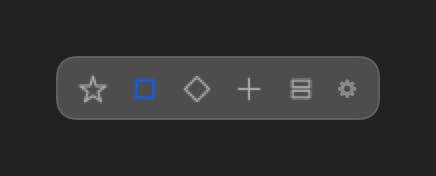
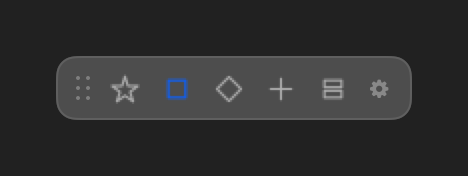
Give the horizontal strip something to drag it by
The strip was nominally draggable everywhere, but the icons and the gear
took every click across almost all of it, leaving five points of padding at
each end — nothing anyone would find. It now opens with a grip that is both
a visible affordance and the drag surface.

The dots are drawn rather than an SF Symbol: not every plausible name for a
grip glyph exists, and Image(systemName:) renders a missing one as nothing
at all, which is exactly how the first attempt failed.

diff --git a/Sources/PaneRail/UI/RailView.swift b/Sources/PaneRail/UI/RailView.swift
@@ -9,6 +9,7 @@ struct RailView: View {
 
     @State private var hoveredID: UInt64?
     @State private var isHoveringSettings = false
+    @State private var isHoveringGrip = false
 
     private let cornerRadius: CGFloat = 10
 
@@ -66,10 +67,33 @@ struct RailView: View {
         .background(WindowDragHandle())
     }
 
-    /// The horizontal layout: glyphs only, with the name in a tooltip. The
-    /// strip itself is the drag handle, since there is no header to grab.
+    /// The handle for the horizontal layout, which has no header to grab.
+    private var stripGrip: some View {
+        // Drawn rather than an SF Symbol: the obvious symbol names for a grip
+        // do not all exist, and a missing one renders as nothing at all.
+        HStack(spacing: 3) {
+            ForEach(0..<2, id: \.self) { _ in
+                VStack(spacing: 3) {
+                    ForEach(0..<3, id: \.self) { _ in
+                        Circle().frame(width: 2, height: 2)
+                    }
+                }
+            }
+        }
+            .foregroundStyle(Color.secondary)
+            .opacity(isHoveringGrip ? 0.95 : 0.5)
+            .frame(width: RailGeometry.stripLeading, height: RailGeometry.stripHeight)
+            .contentShape(Rectangle())
+            .onHover { isHoveringGrip = $0 }
+            .background(WindowDragHandle())
+            .help("Drag to move")
+    }
+
+    /// The horizontal layout: glyphs only, with the name in a tooltip.
     private var iconStrip: some View {
         HStack(spacing: 0) {
+            stripGrip
+
             ForEach(coordinator.items) { item in
                 stripCell(for: item)
             }

diff --git a/Sources/PaneRailKit/RailGeometry.swift b/Sources/PaneRailKit/RailGeometry.swift
@@ -16,6 +16,9 @@ public enum RailGeometry {
     public static let stripItemSide: CGFloat = 26
     public static let stripHeight: CGFloat = 32
     public static let stripPadding: CGFloat = 5
+    /// The grip. Without one the strip has nowhere to grab: icons and the gear
+    /// take every click across the rest of it.
+    public static let stripLeading: CGFloat = 16
     public static let stripTrailing: CGFloat = 22
     public static let maxVisibleStripItems = 16
 
@@ -51,7 +54,7 @@ public enum RailGeometry {
     /// its own arithmetic rather than a transposed panel size.
     public static func stripSize(itemCount: Int, maxItems: Int = maxVisibleStripItems) -> CGSize {
         let shown = min(max(itemCount, 0), max(1, maxItems))
-        let width = stripPadding * 2 + CGFloat(shown) * stripItemSide + stripTrailing
+        let width = stripPadding * 2 + stripLeading + CGFloat(shown) * stripItemSide + stripTrailing
         return CGSize(width: width, height: stripHeight)
     }
 

diff --git a/Tests/PaneRailKitTests/RailGeometryTests.swift b/Tests/PaneRailKitTests/RailGeometryTests.swift
@@ -37,10 +37,12 @@ final class RailGeometryTests: XCTestCase {
         XCTAssertEqual(three.height, RailGeometry.stripHeight)
     }
 
-    func testTheStripLeavesRoomForTheGear() {
+    /// The grip and the gear both need room of their own, or there is nowhere
+    /// left to grab the strip by.
+    func testTheStripLeavesRoomForTheGripAndTheGear() {
         XCTAssertGreaterThanOrEqual(
             RailGeometry.stripSize(itemCount: 0).width,
-            RailGeometry.stripTrailing
+            RailGeometry.stripLeading + RailGeometry.stripTrailing
         )
     }
 
